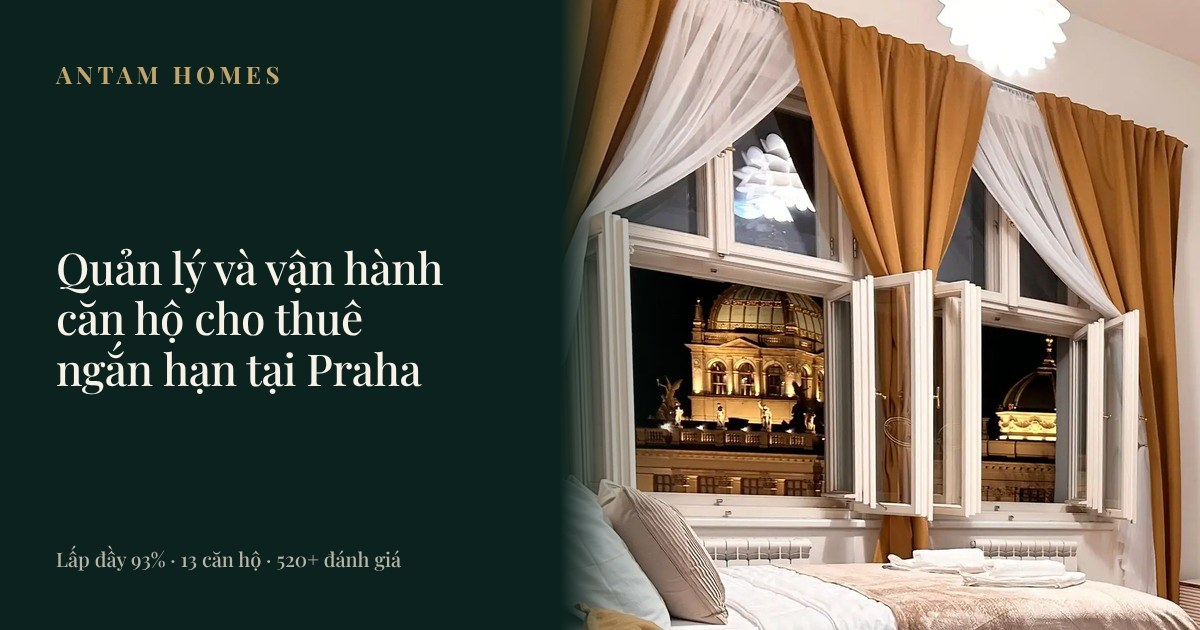
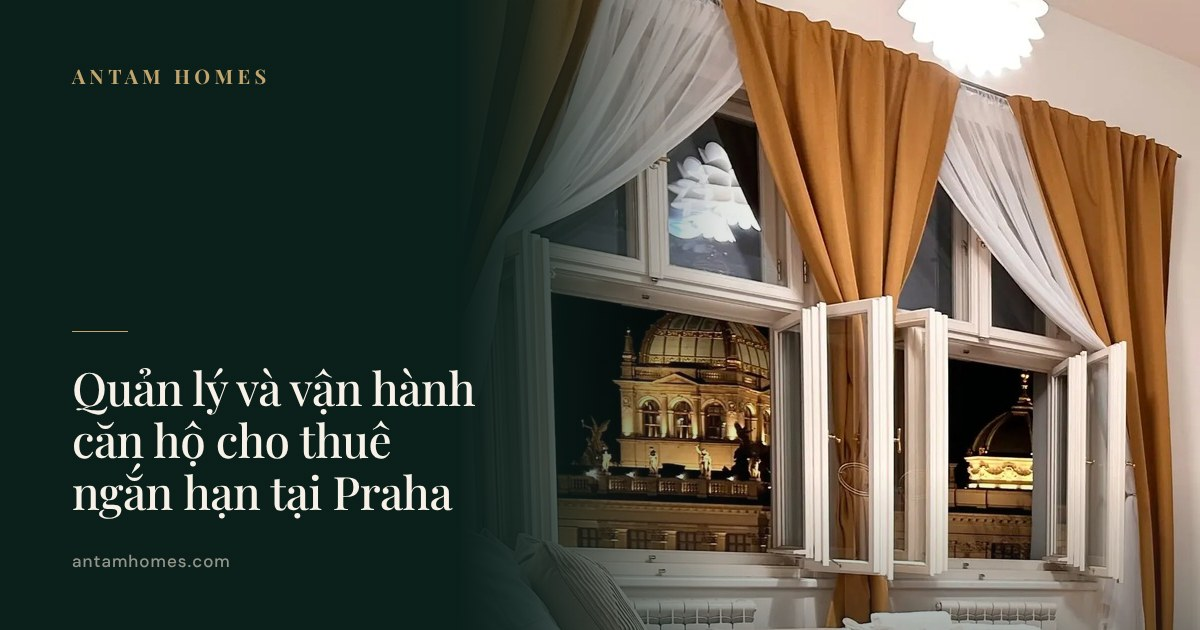
dasd

diff --git a/index.html b/index.html
@@ -54,14 +54,14 @@
     <meta property="og:locale:alternate" content="vi_VN" />
     <meta property="og:title" content="Správa krátkodobých pronájmů a Airbnb v Praze | Antam Homes" />
     <meta property="og:description" content="Správa krátkodobého pronájmu v Praze: hosté, úklid, ceny i vyúčtování. Ke každému přijatému bytu písemné roční minimum. Odměna 20 % + DPH z příjmu po poplatcích, nebo Provozní systém Antam k vlastnímu provozu." />
-    <meta property="og:image" content="https://www.antamhomes.com/og-image.jpg" />
+    <meta property="og:image" content="https://www.antamhomes.com/og-image.jpg?v=3" />
     <meta property="og:image:width" content="1200" />
     <meta property="og:image:height" content="630" />
 
     <meta name="twitter:card" content="summary_large_image" />
     <meta name="twitter:title" content="Správa krátkodobých pronájmů a Airbnb v Praze | Antam Homes" />
     <meta name="twitter:description" content="Správa krátkodobého pronájmu v Praze: hosté, úklid, ceny i vyúčtování. Ke každému přijatému bytu písemné roční minimum. Odměna 20 % + DPH z příjmu po poplatcích, nebo Provozní systém Antam k vlastnímu provozu." />
-    <meta name="twitter:image" content="https://www.antamhomes.com/og-image.jpg" />
+    <meta name="twitter:image" content="https://www.antamhomes.com/og-image.jpg?v=3" />
 
     <!-- Brand splash: shown instantly (before any JS), dismissed by src/main.tsx once the hero has painted. -->
     <style>

diff --git a/src/components/SEO.tsx b/src/components/SEO.tsx
@@ -33,7 +33,7 @@ export const buildBusinessJsonLd = (lang: "cs" | "vi", page: PageKey = "home") =
   const meta = META[page];
   const canonical = SITE + pathFor(page, lang);
   // 3. 11. 2026: náhled pro sdílení podle jazyka (CZ a VI text v obrázku).
-  const ogImage = `${SITE}/${lang === "vi" ? "og-image-vn.jpg" : "og-image.jpg"}`;
+  const ogImage = `${SITE}/${lang === "vi" ? "og-image-vn.jpg" : "og-image.jpg"}?v=3`;
   return {
     "@context": "https://schema.org",
     "@type": "LocalBusiness",
@@ -73,7 +73,7 @@ export const SEO = ({ page }: { page: PageKey }) => {
   const locale = lang === "cs" ? "cs_CZ" : "vi_VN";
   const altLocale = lang === "cs" ? "vi_VN" : "cs_CZ";
   // 3. 11. 2026: náhled pro sdílení podle jazyka (CZ a VI text v obrázku).
-  const ogImage = `${SITE}/${lang === "vi" ? "og-image-vn.jpg" : "og-image.jpg"}`;
+  const ogImage = `${SITE}/${lang === "vi" ? "og-image-vn.jpg" : "og-image.jpg"}?v=3`;
 
   // Structured data: FAQ rich results + local business card. Kept in sync with
   // the on-page FAQ via translations so Google never sees a mismatch. The pure
